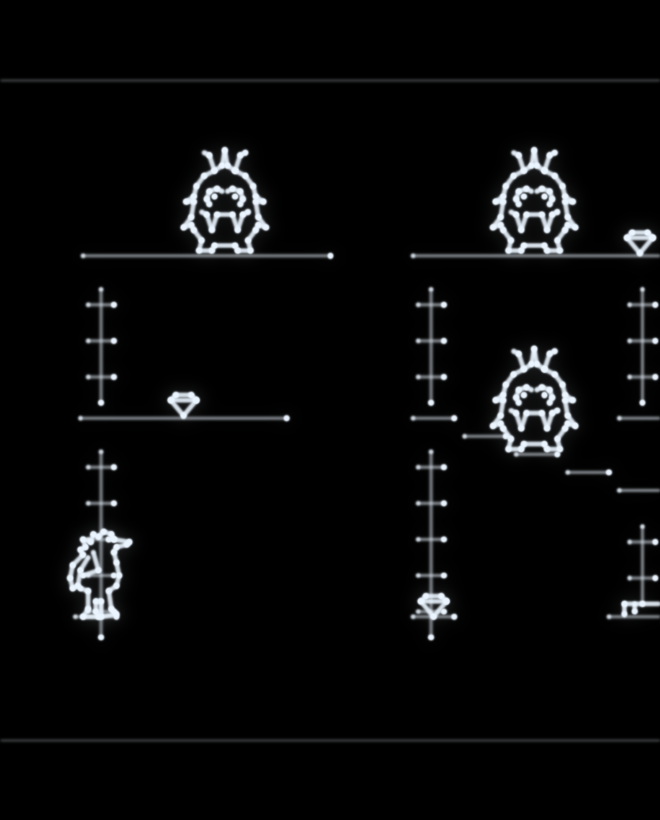
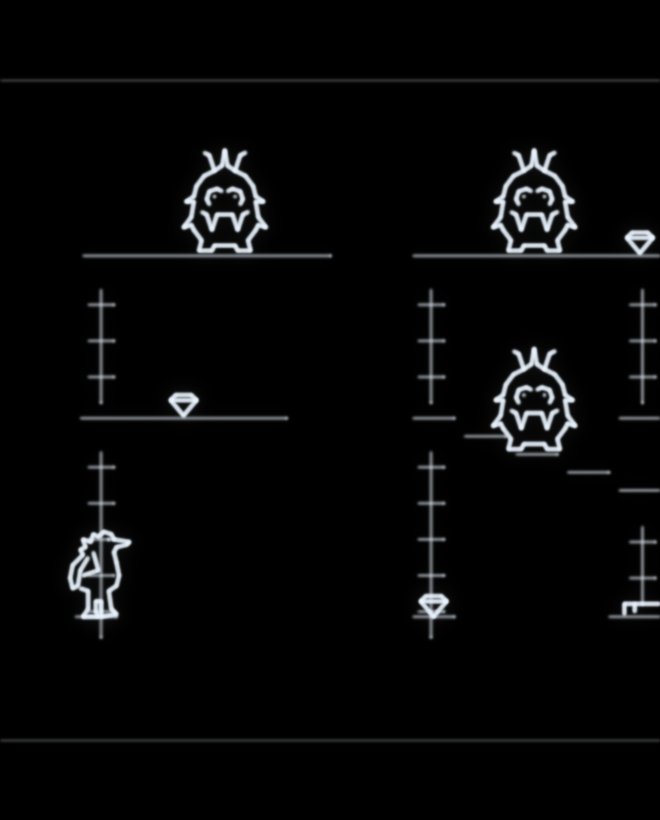
Vectrex: model the analogue lag, draw by counting cycles
beam.patch delays the ramp, zeroing, DAC values and intensity by 13 cycles
(MAME's 8.5 us) but not the blanking; beamshot -d sets it. test/chain.asm's
chain16 draws a polyline by counting cycles: 67 cycles a vector at scale 16
against the BIOS's 88, with the spot standing 1 cycle instead of 18.
tools/timing.py reads captures; the budget findings use the measured costs.

Claude-Session: https://claude.ai/code/session_016GEqmghDHRM5GACRP5ktgt

diff --git a/vectrex/tools/timing.py b/vectrex/tools/timing.py
@@ -1,0 +1,72 @@
+#!/usr/bin/env python3
+"""
+What each run of vectors in a beamshot capture cost:
+
+    python3 vectrex/tools/timing.py CAPTURE.txt
+
+A capture line is (end cycle, x0, y0, x1, y1, intensity, cycles). This joins each moving line
+with the spot standing still just before and after it into a vector, and splits the vectors into
+runs wherever the time from one vector's start to the next jumps (a different routine, or a move
+with the spot off). For each run: how many vectors, the time from start to start, how long the
+beam moved, and how long the spot stood still before and after each.
+"""
+import statistics
+import sys
+
+
+def vectors(path):
+    rows = []
+    for line in open(path):
+        end, x0, y0, x1, y1, z, cyc = (int(v) for v in line.split())
+        rows.append((end - cyc, end, (x0, y0) == (x1, y1), cyc, (x0, y0, x1, y1)))
+    rows.sort()
+    out = []
+    i = 0
+    while i < len(rows):
+        if rows[i][2]:                      # standing: belongs to the next moving line, if adjacent
+            if i + 1 < len(rows) and not rows[i + 1][2] and rows[i + 1][0] - rows[i][1] <= 1:
+                before = rows[i][3]
+                i += 1
+            else:
+                out.append({'start': rows[i][0], 'move': 0, 'before': rows[i][3], 'after': 0, 'line': rows[i][4]})
+                i += 1
+                continue
+        else:
+            before = 0
+        start, end, _, cyc, line = rows[i]
+        after = 0
+        if i + 1 < len(rows) and rows[i + 1][2] and rows[i + 1][0] - end <= 1:
+            after = rows[i + 1][3]
+            i += 1
+        out.append({'start': start - before, 'move': cyc, 'before': before, 'after': after, 'line': line})
+        i += 1
+    return out
+
+
+def main():
+    vs = vectors(sys.argv[1])
+    runs, run = [], []
+    for v in vs:
+        if run and len(run) >= 2:
+            last = run[-1]['start'] - run[-2]['start']
+            gap = v['start'] - run[-1]['start']
+            if abs(gap - last) > 12:
+                runs.append(run)
+                run = []
+        elif run and v['start'] - run[-1]['start'] > 400:
+            runs.append(run)
+            run = []
+        run.append(v)
+    if run:
+        runs.append(run)
+    print('%5s %8s %10s %8s %8s %8s  %s' % ('vecs', 'start', 'per vec', 'moving', 'before', 'after', 'first line (x0 y0 x1 y1)'))
+    for r in runs:
+        periods = [b['start'] - a['start'] for a, b in zip(r, r[1:])]
+        per = '%.1f' % statistics.mean(periods) if periods else '-'
+        print('%5d %8d %10s %8.1f %8.1f %8.1f  %s' % (
+            len(r), r[0]['start'], per, statistics.mean(v['move'] for v in r),
+            statistics.mean(v['before'] for v in r), statistics.mean(v['after'] for v in r), r[0]['line']))
+
+
+if __name__ == '__main__':
+    main()

diff --git a/vectrex/emu/beamshot.c b/vectrex/emu/beamshot.c
@@ -1,7 +1,7 @@
 /*
  * beamshot: run vecx without a window and write down every line the beam draws.
  *
- *     beamshot ROM CART|- SKIP FRAMES OUT
+ *     beamshot [-d CYCLES] ROM CART|- SKIP FRAMES OUT
  *
  * Runs the Vectrex (BIOS ROM, and the cartridge CART unless it's "-") for SKIP frames of 30000
  * cycles (50 Hz), then records the lines drawn in the next FRAMES frames to OUT, one a line:
@@ -12,6 +12,9 @@
  * the beam took to draw it, in cycles. A line with the same start and end is the beam standing
  * still with the beam on. render.py turns this into a picture, the brightness of each line
  * coming from intensity x time / length (the beam's speed), as on a real Vectrex.
+ *
+ * -d sets how many cycles the analogue side (ramp, DAC values, zeroing, intensity) lags the VIA,
+ * while the spot's on/off doesn't: 13 by default, MAME's 8.5 microseconds; 0 for vecx as it was.
  *
  * It's linked with vecx's emulation (vecx.c, e6809.c, with beam.patch applied) in place of vecx's
  * SDL front end (osint.c) and sound (e8910.c), so it needs no SDL.
@@ -49,8 +52,14 @@ static void load (const char *name, unsigned char *buf, size_t size, int exact)
 int main (int argc, char *argv[])
 {
 	long skip, frames, i;
-	if (argc != 6) {
-		fprintf (stderr, "usage: beamshot ROM CART|- SKIP FRAMES OUT\n");
+	alg_delay = 13;
+	if (argc > 2 && strcmp (argv[1], "-d") == 0) {
+		alg_delay = atoi (argv[2]);
+		argc -= 2;
+		argv += 2;
+	}
+	if (argc != 6 || alg_delay < 0 || alg_delay >= 64) {
+		fprintf (stderr, "usage: beamshot [-d CYCLES (0-63)] ROM CART|- SKIP FRAMES OUT\n");
 		return 2;
 	}
 	load (argv[1], rom, sizeof rom, 1);

diff --git a/vectrex/tools/render_capture.py b/vectrex/tools/render_capture.py
@@ -3,6 +3,9 @@
 Render what beamshot (vectrex/emu) recorded through the beam model:
 
     python3 vectrex/tools/render_capture.py CAPTURE.txt OUT.png [--plain] [--width 660]
+                                           [--view X0,Y0,X1,Y1]
+
+--view shows only that part of the screen (vecx's beam units: 33000 x 41000, y down).
 
 --plain draws every line at its intensity alone, the way vecx and MAME do, for comparison.
 """
@@ -28,16 +31,18 @@ def main():
     ap.add_argument('out')
     ap.add_argument('--plain', action='store_true')
     ap.add_argument('--width', type=int, default=660)
+    ap.add_argument('--view')
     a = ap.parse_args()
+    view = tuple(float(v) for v in a.view.split(',')) if a.view else None
     lines = load(a.capture)
     if a.plain:
         # every line as if drawn at the reference speed: brightness from the intensity alone
         lines = [(x0, y0, x1, y1, z, max(1.0, ((x1 - x0) ** 2 + (y1 - y0) ** 2) ** 0.5 / beam.REF_SPEED))
                  for x0, y0, x1, y1, z, _ in lines]
         lines = [ln for ln in lines if (ln[0], ln[1]) != (ln[2], ln[3])]   # (no dots where it stands)
-        beam.render(lines, a.out, width=a.width)
+        beam.render(lines, a.out, width=a.width, view=view)
     else:
-        beam.render(lines, a.out, width=a.width)
+        beam.render(lines, a.out, width=a.width, view=view)
     print(a.out)
 
 

diff --git a/vectrex/tools/beam.py b/vectrex/tools/beam.py
@@ -24,7 +24,7 @@ import numpy as np
 from PIL import Image
 
 SCREEN_X, SCREEN_Y = 33000, 41000
-DWELL_START, DWELL_END = 4, 15   # cycles the spot is on, still, before and after each vector
+DWELL_START, DWELL_END = 0, 1    # cycles the spot is on, still, before and after each vector
 SPOT = 70.0                 # beam units, the spot's standard deviation
 BLOOM, BLOOM_SPREAD = 0.06, 6.0
 REF_SPEED, REF_LEVEL = 48.0, 0.8
@@ -45,8 +45,10 @@ def _gauss_kernel(sigma):
 
 def _blur(img, sigma):
     k = _gauss_kernel(sigma)
-    img = np.apply_along_axis(lambda m: np.convolve(m, k, mode='same'), 0, img)
-    return np.apply_along_axis(lambda m: np.convolve(m, k, mode='same'), 1, img)
+    r = len(k) // 2
+    # ('full', then the middle: 'same' goes wrong when the kernel is longer than the picture)
+    img = np.apply_along_axis(lambda m: np.convolve(m, k, mode='full')[r:r + len(m)], 0, img)
+    return np.apply_along_axis(lambda m: np.convolve(m, k, mode='full')[r:r + len(m)], 1, img)
 
 
 def _deposit(acc, upp, lines, ox, oy):

diff --git a/vectrex/README.md b/vectrex/README.md
@@ -25,8 +25,10 @@ At 50 Hz a frame is 30000 cycles of the 1.5 MHz 6809.
 | `tools/artsheet.py` | Each shape next to its sprite, the polylines over it, and the shape through the beam model (`preview/artsheet.png`). |
 | `tools/scene.py` | A level's window through the beam model, with a cycle estimate (`preview/A_1.png`, `preview/A_6.png`). |
 | `emu/` | `beam.patch` for vecx (an open-source Vectrex emulator, GPL v3) so it reports how long the beam took over each line and the cycle it ended on (and so it compiles with current GCC); `beamshot.c`, a front end that runs it without a window and writes the lines down; and `build.sh`, which fetches vecx at a fixed commit, patches it and builds `emu/vecx/beamshot`. |
-| `tools/render_capture.py` | Renders what beamshot wrote down through the beam model (`preview/timing_vecx.png`), or with `--plain` as vecx and MAME show it. |
-| `test/timing.asm` | A cartridge that draws with the BIOS's routines and with a loop of its own, for measuring what each costs (`asm6809 -B -o timing.bin timing.asm`). |
+| `tools/render_capture.py` | Renders what beamshot wrote down through the beam model (`preview/timing_vecx.png`), or with `--plain` as vecx and MAME show it; `--view` zooms in. |
+| `tools/timing.py` | For each run of vectors in a capture: how many, cycles from one start to the next, cycles moving, and cycles of the spot standing still before and after. |
+| `test/timing.asm` | A cartridge that draws with the BIOS's routines and with a polling loop of its own, for measuring what each costs. |
+| `test/chain.asm` | `chain16`: a polyline drawn at scale 16 by counting cycles instead of polling, against the BIOS's `Draw_VLc` (`preview/chain_vs_bios.png`). |
 
 asm6809 is built in `/opt/frak-tools/asm6809/bin/` by the Frak ports environment's setup script.
 
@@ -34,6 +36,7 @@ asm6809 is built in `/opt/frak-tools/asm6809/bin/` by the Frak ports environment
 vectrex/emu/build.sh
 (cd vectrex/test && /opt/frak-tools/asm6809/bin/asm6809 -B -o timing.bin timing.asm)
 vectrex/emu/vecx/beamshot vectrex/emu/vecx/rom.dat vectrex/test/timing.bin 1000 1 capture.txt
+python3 vectrex/tools/timing.py capture.txt
 python3 vectrex/tools/render_capture.py capture.txt timing.png
 python3 vectrex/tools/budget.py ../steamfrak
 python3 vectrex/tools/artsheet.py ../steamfrak vectrex/preview/artsheet.png
@@ -45,39 +48,67 @@ python3 vectrex/tools/scene.py --steamfrak ../steamfrak --level room_A_1 --scene
 vecx and MAME both set a line's brightness from the intensity register alone, not the beam's
 speed, and neither shows the dots where the beam dwells. Hence `beam.py`, and the patch to vecx.
 
-## What drawing costs (measured in vecx with test/timing.asm)
+## The analogue lag
+
+In MAME's Vectrex the analogue side lags the VIA by 8.5 microseconds (`ANALOG_DELAY`): the ramp
+starting and stopping, the integrators being zeroed, and the DAC's values (X, Y and intensity)
+all reach the integrators about 13 cycles after the 6809 writes them, while the blanking (spot
+on or off) doesn't lag. Its comment says getting this right matters for where text and mazes
+come out in real games. vecx has no lag; `beam.patch` adds it (`beamshot -d CYCLES`, 13 by
+default, 0 for vecx as it was, which gives exactly the captures it gave before).
+
+So when timer 1 runs out the beam goes on moving for about 13 cycles: the NOP after the BIOS's
+polling loop keeps the spot on until it stops. A routine that counts cycles needs the same
+offset, but not idle time: it turns the spot on 13 cycles after starting the timer, and off 13
+after the timer runs out, and meanwhile can put the next vector's values on the DAC, as they
+arrive after the beam has stopped.
+
+## What drawing costs (measured in vecx, with the 13-cycle lag)
 
 vecx's beam units are DAC value x cycles: a vector with dx = 16 at scale 8 is 128 units long.
 
-| | cycles per vector, start to start | spot on, standing still |
-|---|---|---|
-| BIOS `Draw_VLc` at scale $08 | 81 = 8 moving + 73 | 19 (4 before moving, 15 after) |
-| BIOS `Draw_VLc` at scale $20 | 102 = 32 moving + 70 | 16 |
-| `draw16` (timing.asm: the same steps, without the BIOS's extras) | 78 | 20 |
-| a separate dot: `Reset0Ref`, `Moveto_d` at scale $7F, `Draw_Line_d` | about 390 | |
+| | cycles per vector, start to start | moving | spot on, standing: before / after |
+|---|---|---|---|
+| BIOS `Draw_VLc` at scale 8 | 81 | 8 | 17 / 2 |
+| BIOS `Draw_VLc` at scale 16 | 88 | 16 | 17 / 1 |
+| BIOS `Draw_VLc` at scale 32 | 102 | 31 | 17 / 0 |
+| `draw16` (timing.asm: the BIOS's steps, polling, without its extras) | 78 | 8 | 17 / 3 |
+| **`chain16`** (chain.asm: counting cycles, scale 16) | **67** | 16 | **0 / 1** |
+| a separate dot: `Reset0Ref`, `Moveto_d` at scale $7F, `Draw_Line_d` | about 390 | | |
+
+(Without the lag, vecx shows the BIOS's standing time as 4 before and 15 after: the same in all,
+in different places.)
 
 * A long line (`Draw_Line_d` at scale $FF) comes out as one line: vecx doesn't break lines up.
   (The BIOS's start-up screen is drawn dashed.)
-* Most of a vector's cost is setting it up and waiting for the timer by polling it, so a loop
-  that polls, like `draw16`, saves almost nothing. Saving time means code that counts cycles
-  instead (and does the next vector's work while the beam moves, where it can).
-* The spot stays on, standing still, for about 19 cycles at each vertex: the bright dots at the
-  ends of lines. With short vectors (5-10 cycles of movement) the vertices get more energy than
-  the lines between them, which `beam.py` shows as beads. Faster code that only turns the spot on
-  while the beam moves would also look better.
+* `chain16` costs 51 cycles a vector more than its movement, against the BIOS's 72, and the spot
+  hardly stands still at all: no bright dots at the vertices. Of the 51, 36 are the writes to the
+  VIA that every vector needs (dy, mux on, mux off, dx, timer, spot on, spot off); the rest are
+  the loop and the gap the BIOS leaves for Y's sample-and-hold to settle (kept, to be safe on
+  real hardware). Shapes compiled into straight-line code could save perhaps 10 more.
+* A routine that counts cycles works for one scale. At a fixed scale a vector's speed, and so its
+  brightness, goes with its length: long segments come out dimmer than short ones. Line art
+  for it should keep its segments similar lengths, or long ones split.
 
 ## Findings so far
 
 * **The number of vectors costs much more than their length.** Drawing the scenery fast (dim) or
   slowly (bright) makes only a few percent difference: platforms and ladders are few, long lines.
-* **With the BIOS's routines and the current art, about three quarters of the levels go over a
-  20000-cycle drawing budget at their busiest** (A_1's start is about 133% of a whole frame).
-  The worst are the ones with rows of standing meanies (A_6: 23 Hooters; A_9: 13 Hooters, 26 gems
-  and 15 keys; E_7: 9 Scrubblies).
-* **With faster drawing code** (an estimated 35 cycles a vector and 120 a shape, not yet written
-  or measured) the median level fits; **with that and meanies of about 20 vectors**, all but 5
-  levels fit (A_6 is still about 150%). Other ways out: plainer art for meanies that stand still,
-  moving from one shape to the next without going back to the centre, or 25 Hz on busy screens.
+* **Levels over a 20000-cycle drawing budget at their busiest window (of 55), 256-pixel window:**
+
+  | | over budget | median |
+  |---|---|---|
+  | BIOS routines, current art (Trogg 37 vectors, Scrubbly 52) | 41 | 28106 |
+  | `chain16` (51 a vector), BIOS reset and move (310 a shape) | 34 | 22342 |
+  | ... and meanies of about 20 vectors | 23 | 18577 |
+  | ... and moving between shapes for about 150 cycles instead of 310 | 13 | 16177 |
+
+  The worst are the ones with rows of standing meanies (A_6: 23 Hooters; A_9: 13 Hooters, 26
+  gems and 15 keys; E_7: 9 Scrubblies). Other ways out: plainer art for meanies that stand
+  still, or 25 Hz on busy screens.
+* **So next: cheaper moves between shapes** (from one shape to the next without going back to
+  the centre each time, or with a cheaper reset), and line art in about 20 vectors.
 * **The levels fit in a cartridge.** All 55 pack to 11.8KB in the BBC format.
 
-Still to find out: which speeds look right, which needs a real Vectrex.
+Still to find out: whether the lag and the settling time are right (MAME's figures, not
+measured), and which speeds look right, which needs a real Vectrex.
